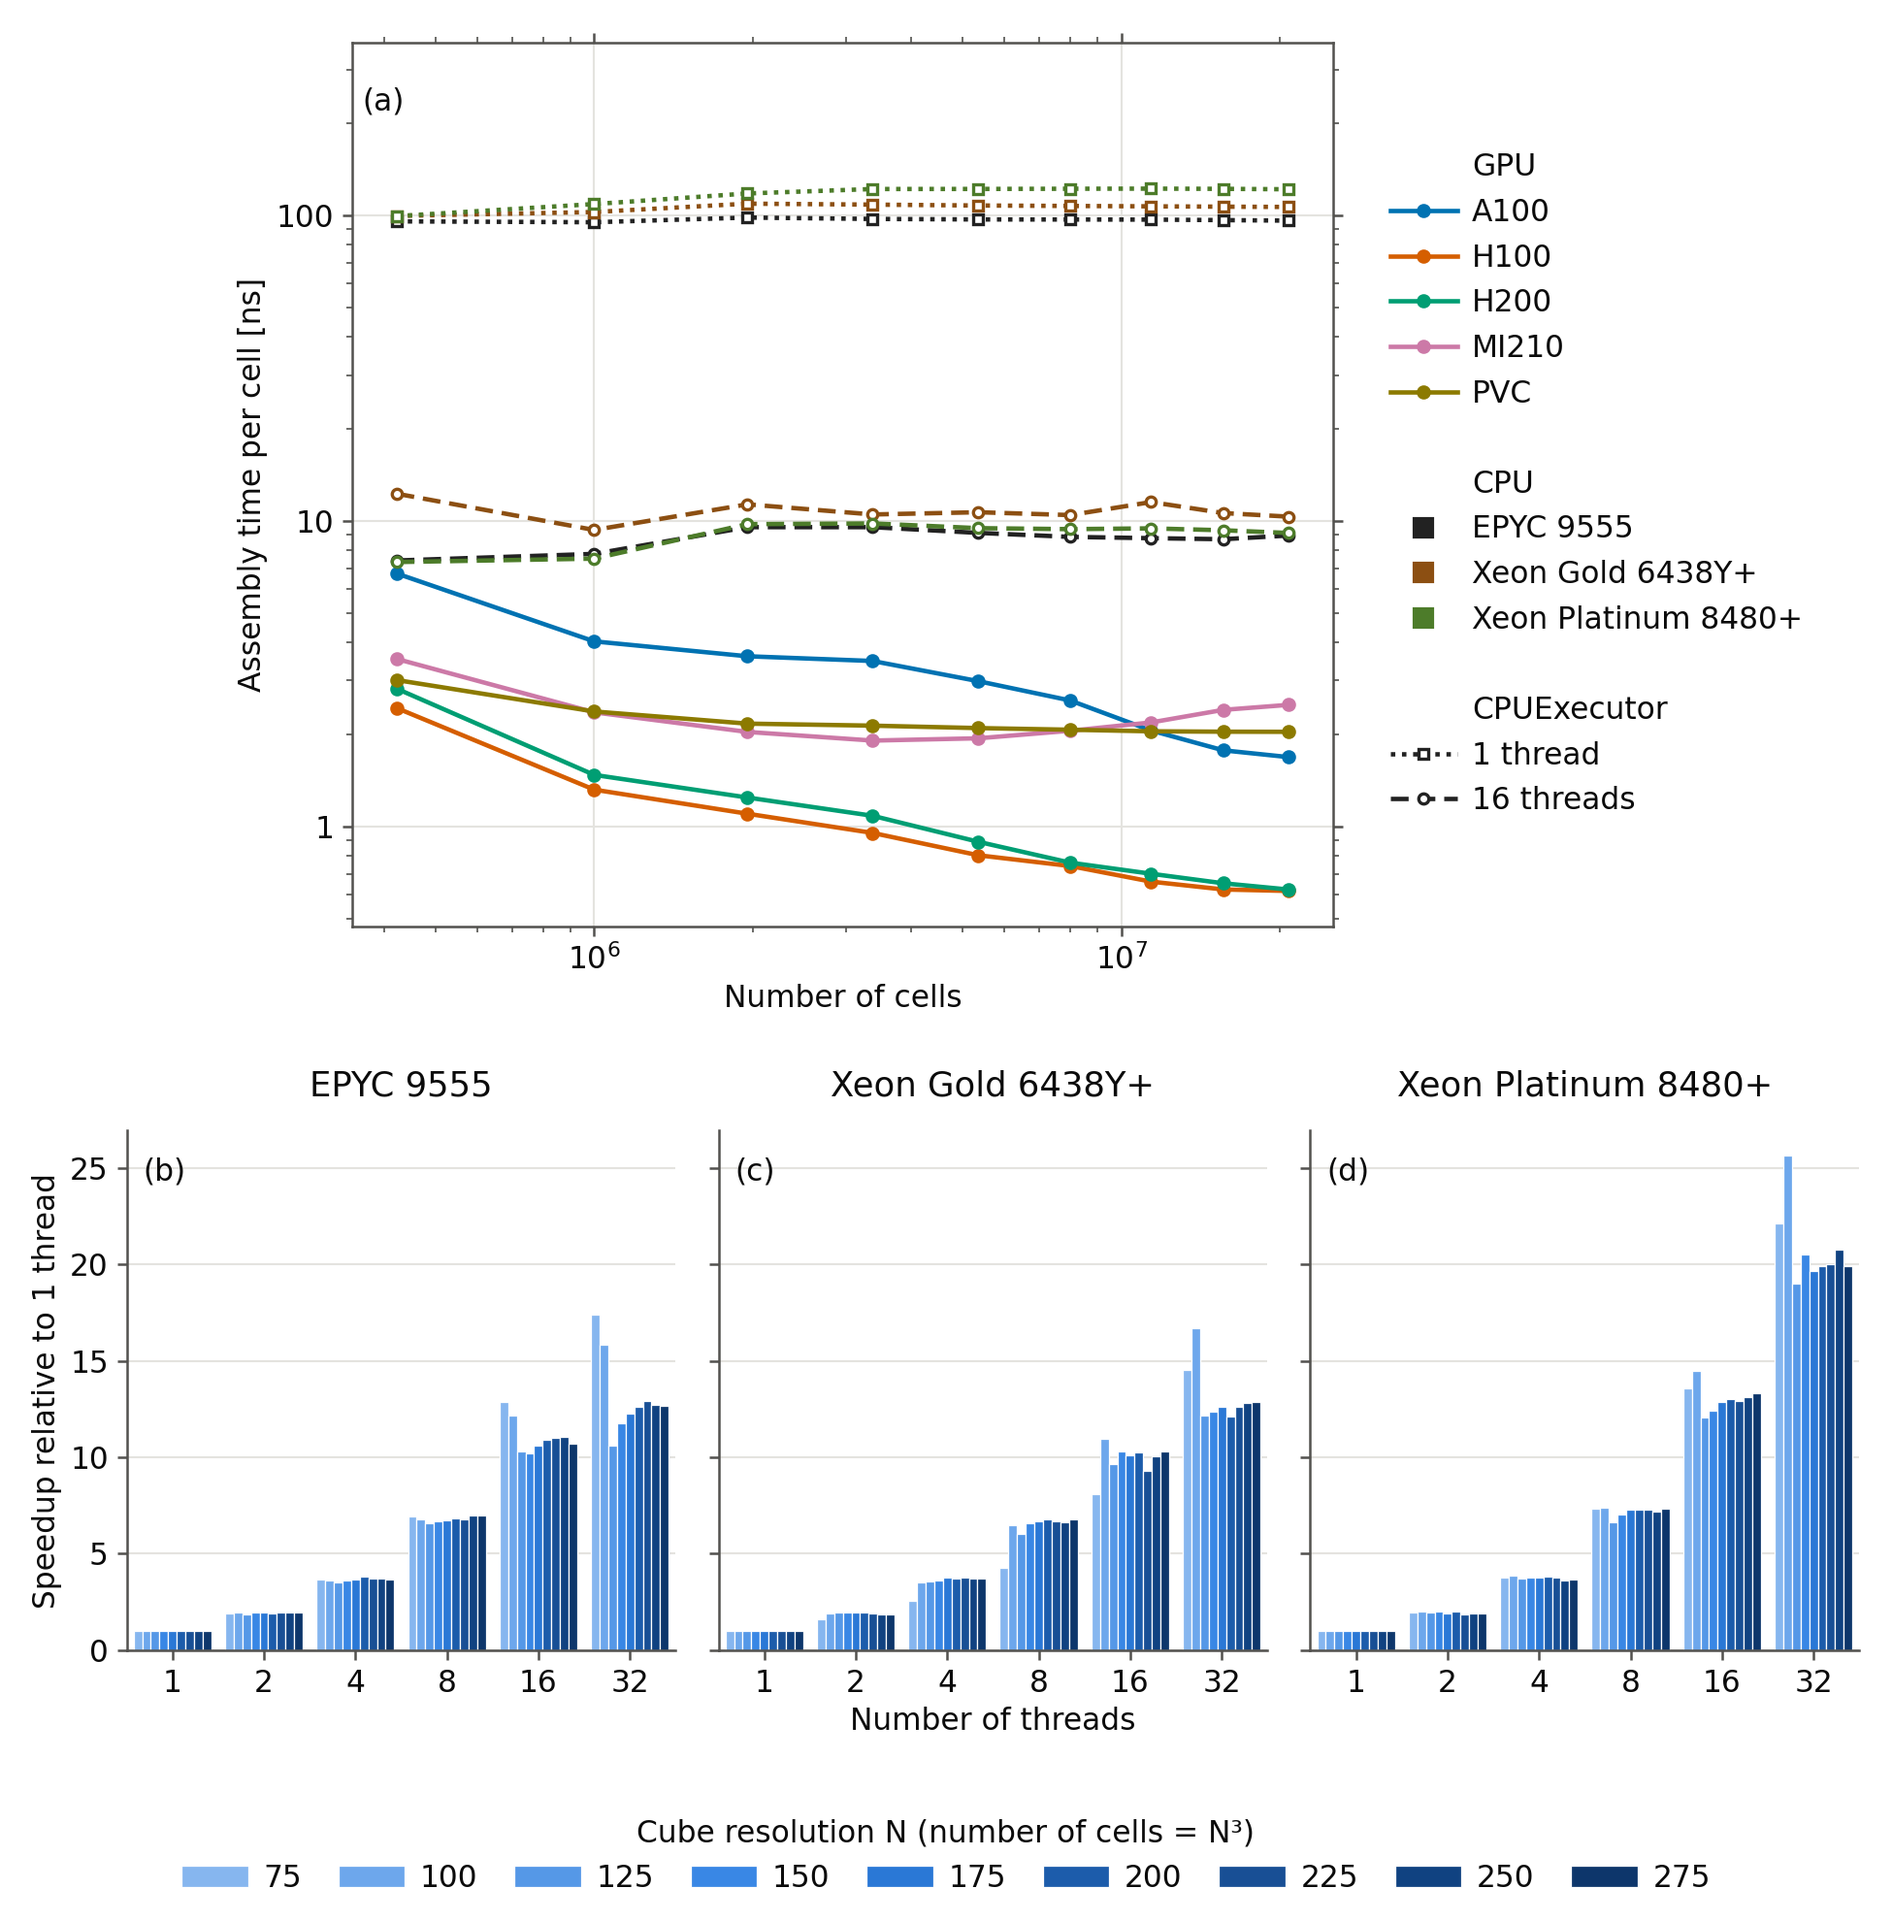
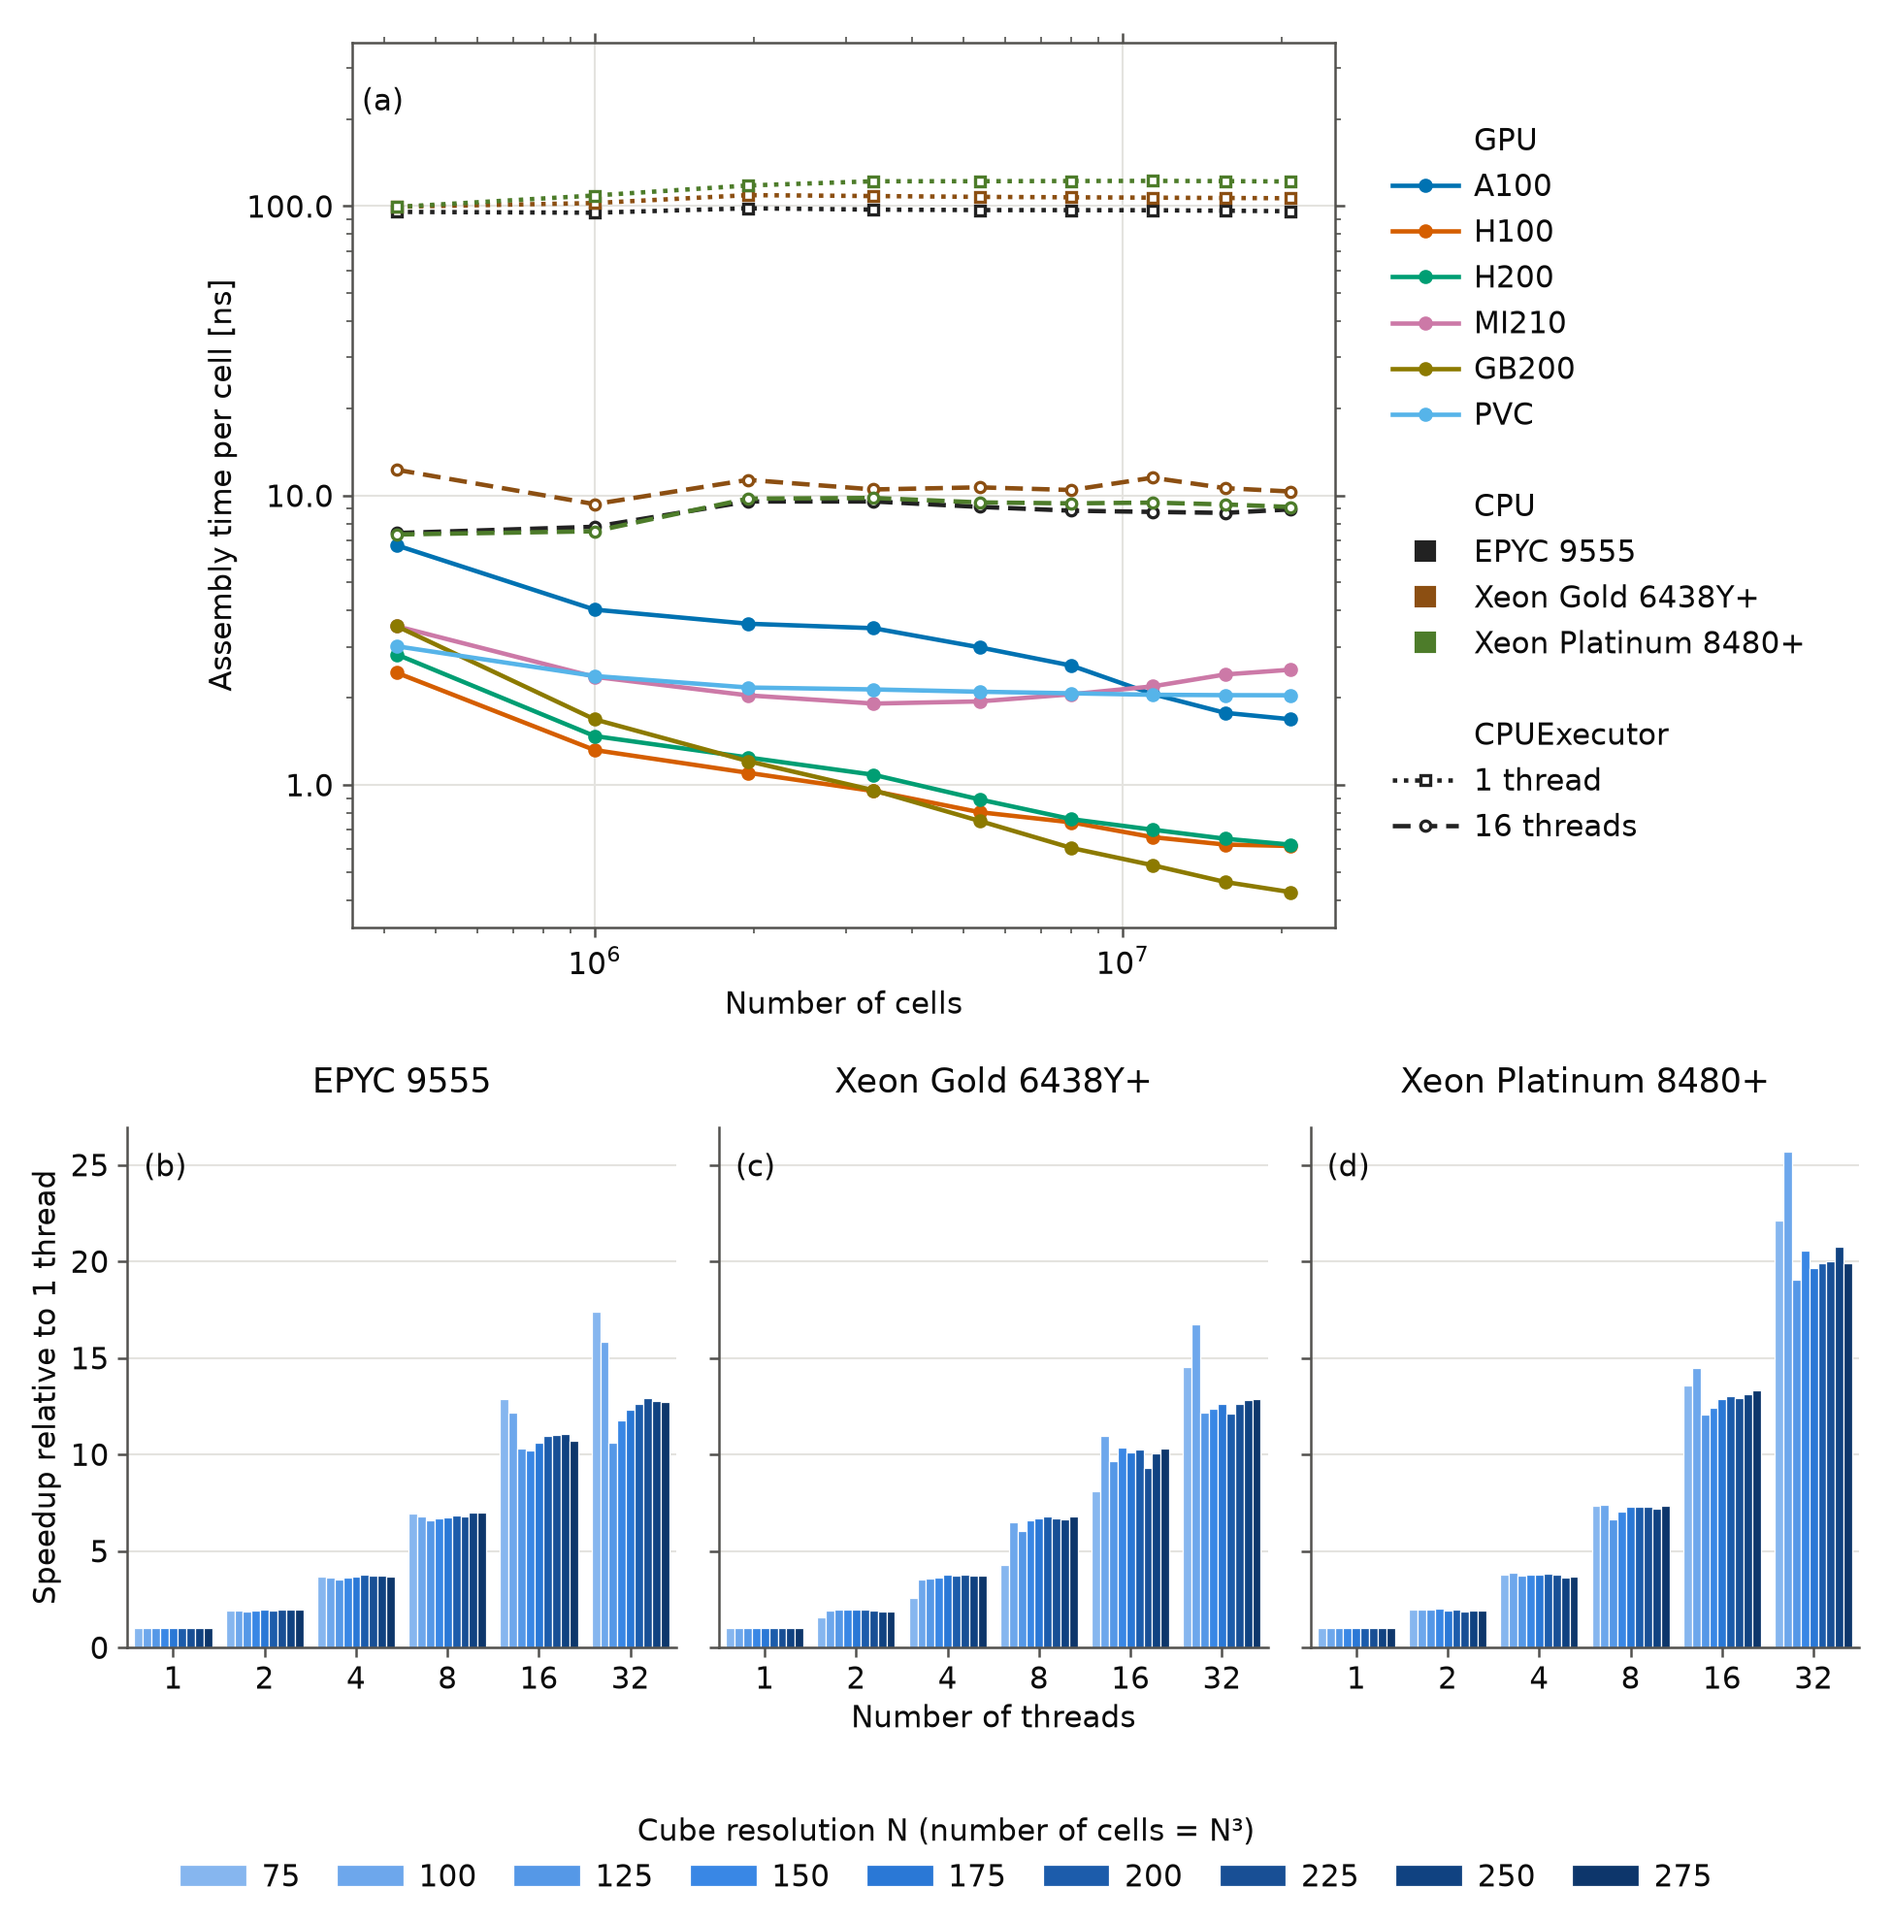
doc(joss): add GB200 benchmark data to the performance figure

diff --git a/doc/joss/scripts/plotPerformance.py b/doc/joss/scripts/plotPerformance.py
@@ -21,7 +21,7 @@ Usage:
     python3 ../scripts/plotPerformance.py \\
         --gpu A100=data/momentum_nvidia_a100.1.csv --gpu H100=data/momentum_nvidia_h100.1.csv \\
         --gpu H200=data/momentum_nvidia_h200.1.csv --gpu MI210=data/momentum_amd_mi210.1.csv \\
-        --gpu PVC=data/momentum_intel_pvc.1.csv \\
+        --gpu GB200=data/momentum_nvidia_gb200.1.csv --gpu PVC=data/momentum_intel_pvc.1.csv \\
         --cpu "EPYC 9555=data/momentum_nvidia_h200" \\
         --cpu "Xeon Gold 6438Y+=data/momentum_intel_xeon6438y" \\
         --cpu "Xeon Platinum 8480+=data/momentum_intel_xeon8480" \\

diff --git a/doc/joss/paper.md b/doc/joss/paper.md
@@ -80,9 +80,9 @@ The discretisation engine then applies selected temporal and spatial schemes to 
 High-level workflow concerns such as time loops, solver control, and I/O are intentionally handled outside the core library by external applications. The `Demonstrator` (e.g. NeoFOAM) illustrates how NeoN can be integrated into OpenFOAM-style workflows. Importantly, NeoN operates independently of OpenFOAM, and its Python bindings facilitate access to the DSL without NeoFOAM.
 
 # Performance Evaluation
-![Computational performance evaluating a simplified momentum transport equation. (a): required assembly time per cell for different grid resolutions on a single core and using 16 threads of three CPUs, and on NVIDIA A100, H100 and H200, AMD MI210, and Intel Data Center GPU Max 1100 (PVC) GPUs. (b)–(d): speed-up relative to a single core for different numbers of threads across various grid resolutions on each CPU.\label{fig:neon-performance}](figures/neon_performance.png){width=100%}
+![Computational performance evaluating a simplified momentum transport equation. (a): required assembly time per cell for different grid resolutions on a single core and using 16 threads of three CPUs, and on NVIDIA A100, H100, H200 and GB200, AMD MI210, and Intel Data Center GPU Max 1100 (PVC) GPUs. (b)–(d): speed-up relative to a single core for different numbers of threads across various grid resolutions on each CPU.\label{fig:neon-performance}](figures/neon_performance.png){width=100%}
 
-To evaluate the performance of NeoN, the wall-clock time required for the matrix assembly of the expression defined in Listing 1 (a simplified momentum transport equation) is measured across multiple hardware backends and problem sizes. The computational domain consists of a unit cube discretised using a uniform hexahedral mesh with varying resolutions. Benchmarks are conducted on representative high-performance computing hardware, including AMD EPYC 9555 (64 cores), Intel Xeon Gold 6438Y+ (32 cores) and Intel Xeon Platinum 8480+ (56 cores) processors, NVIDIA A100, H100 and H200 GPUs, an AMD MI210 GPU, and an Intel Data Center GPU Max 1100 (PVC). \autoref{fig:neon-performance}(a) reports the assembly time per cell for different grid resolutions, comparing single-core CPU execution, multi-core CPU execution (16 threads), and GPU execution on an A100, H100, H200, MI210 and PVC device. The results indicate that GPU acceleration reduces the assembly time per cell relative to single-core CPU execution by a factor of approximately 15 to 200, depending on the device and grid resolution, with the largest gains on the H100 and H200 for the finest grids.
+To evaluate the performance of NeoN, the wall-clock time required for the matrix assembly of the expression defined in Listing 1 (a simplified momentum transport equation) is measured across multiple hardware backends and problem sizes. The computational domain consists of a unit cube discretised using a uniform hexahedral mesh with varying resolutions. Benchmarks are conducted on representative high-performance computing hardware, including AMD EPYC 9555 (64 cores), Intel Xeon Gold 6438Y+ (32 cores) and Intel Xeon Platinum 8480+ (56 cores) processors, NVIDIA A100, H100, H200 and GB200 GPUs, an AMD MI210 GPU, and an Intel Data Center GPU Max 1100 (PVC). \autoref{fig:neon-performance}(a) reports the assembly time per cell for different grid resolutions, comparing single-core CPU execution, multi-core CPU execution (16 threads), and GPU execution on an A100, H100, H200, GB200, MI210 and PVC device. The results indicate that GPU acceleration reduces the assembly time per cell relative to single-core CPU execution by a factor of approximately 15 to 290, depending on the device and grid resolution, with the largest gains on the GB200 for the finest grids.
 In addition, strong scaling experiments using the OpenMP backend on up to 32 CPU cores are presented in \autoref{fig:neon-performance}(b)–(d). Up to eight threads, the speedup is close to linear. At 16 and 32 threads, speedups of approximately 11x and 13x are achieved for most resolutions on the EPYC 9555 and Xeon 6438Y+, and approximately 13x and 20x on the Xeon 8480+. The diminishing gains beyond 16 threads are attributed to memory bandwidth limitations leading to increased contention among threads.
 
 # Research Impact Statement
